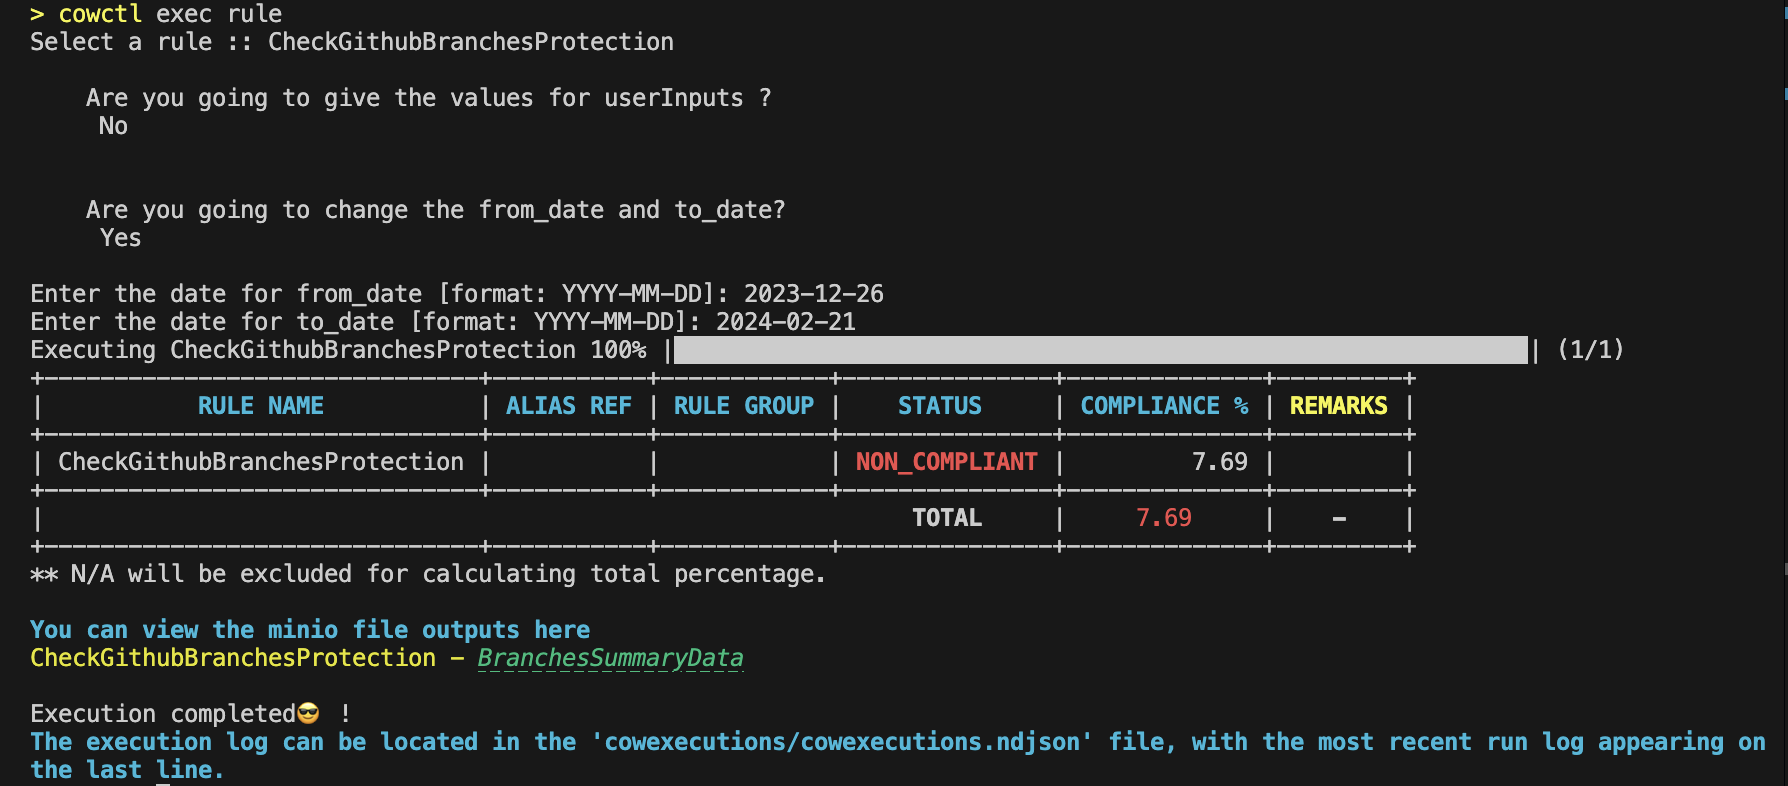
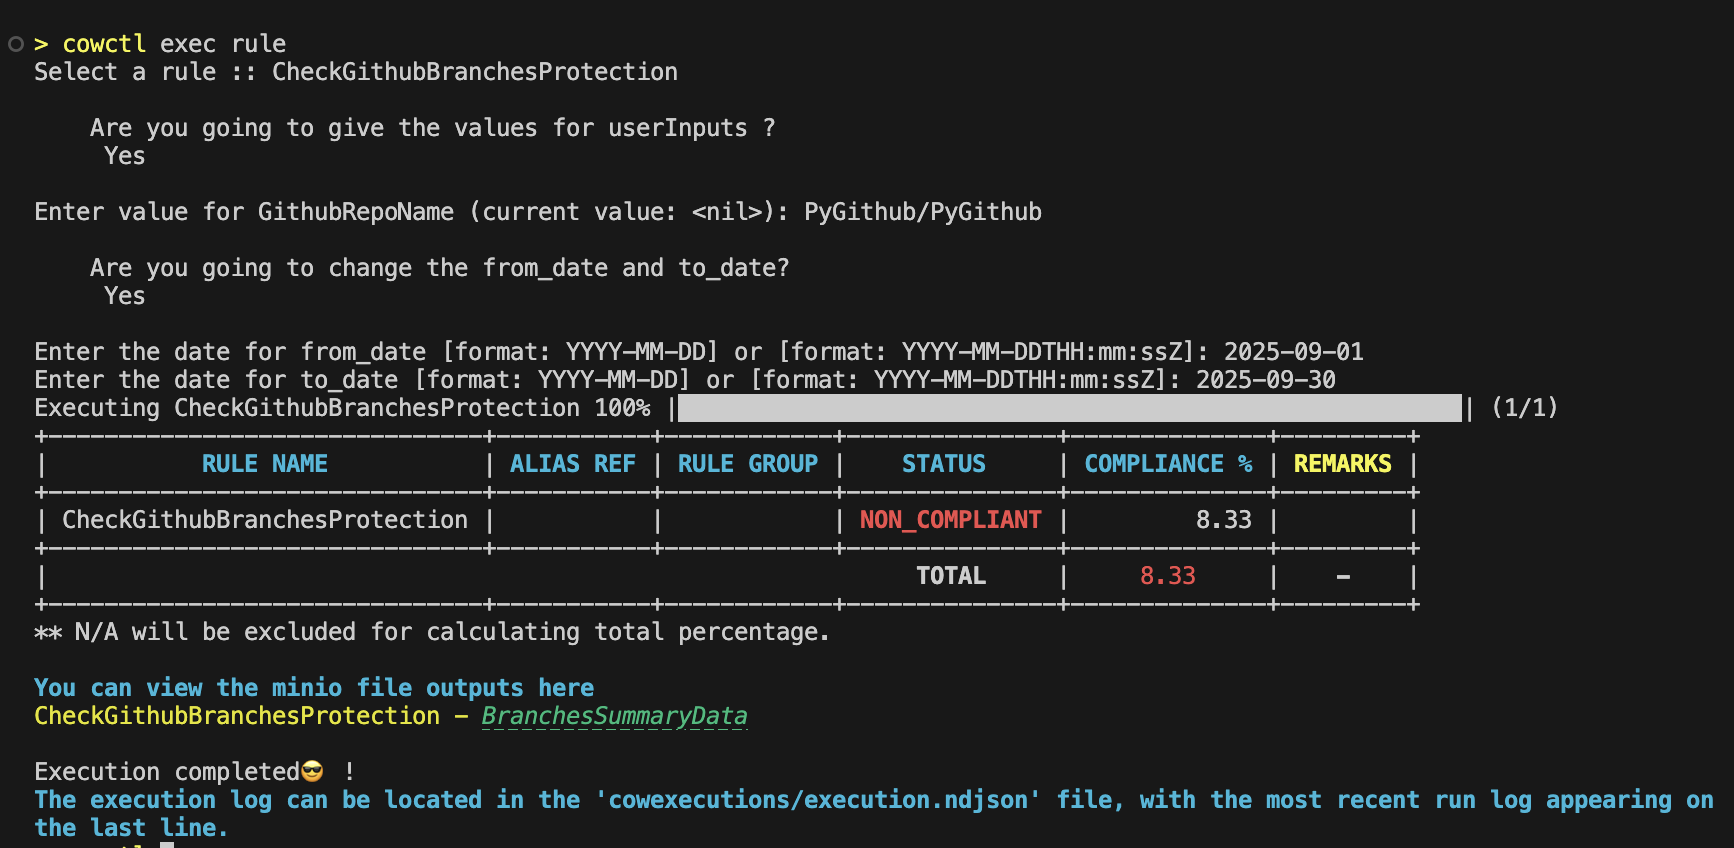
Exec Rule (input prompting) changes

diff --git a/README.md b/README.md
@@ -75,7 +75,7 @@ Please make sure to have the following installed in your machine.
 
 <img src="misc/img/minio_creds.png" alt="Minio Creds" width="400"/>
 
-3.  If you are running this on a Linux machine, please make sure to update the docker-compose file (`docker-compose.yaml`) and comment the specified line (as shown below).
+3.  If you are running this on a Linux machine, please make sure to update the docker-compose file (`docker-compose.yaml`) and comment the specified lines (as shown below).
 
 <img src="misc/img/docker_compose_uncomment.png" alt="docker_compose_uncomment" width="200"/>
 
@@ -500,6 +500,16 @@ Upon executing a rule, it generates an output that furnishes valuable informatio
 
 - Compliance Status: This indicates the outcome of the rule execution regarding compliance with the specified criteria, which can be categorized as either COMPLIANT, NON_COMPLIANT, or NOT_DETERMINED.
 - Compliance Percentage: If the calculation of the compliance percentage is integrated into the task logic, it will be included in the output. This percentage serves as a quantitative measure, quantifying the extent to which compliance has been achieved and providing a clear indicator of the rule's adherence.
+
+During rule execution in OpenSecurityCompliance, you are prompted to provide input values interactively such as:
+- String or Simple Inputs:
+    Direct values, such as repository names (GithubRepoName), identifiers, or other textual information. You will be prompted to enter these during execution.
+
+- File Inputs:
+    Rules can also accept file inputs. To test this locally, upload the file to Minio (http://localhost:9001) and when prompted, provide the file path as the value.
+
+- Control Period:
+    The from_date and to_date define the control period for the rule execution. You will be prompted to provide these dates to ensure the rule runs over the correct timeframe.
 
 <img src="misc/img/exec_rule_completion.png" alt="exec_rule_completion" width="950"/>
 
